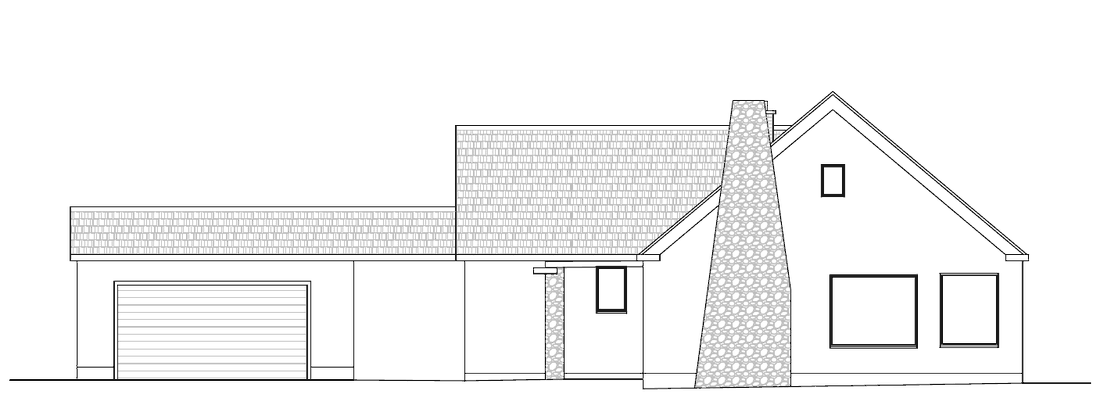
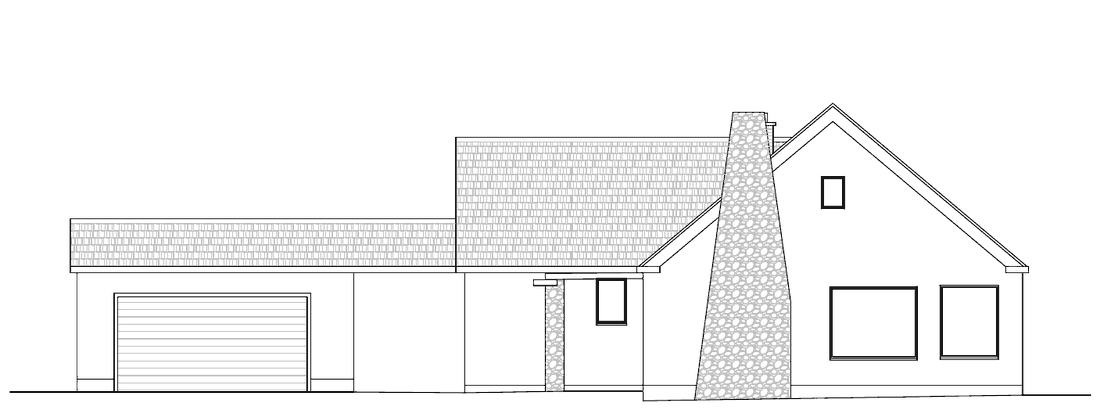
Moss Lane: full rear elevation incl. chimneys, trees removed from drawings, Martin's chosen before photos
Claude-Session: https://claude.ai/code/session_01MpwyAFK5RH9F2HK69AEfyK

Changed region(s): [[0.0, 0.2412, 0.9891, 0.995], [0.7418, 0.392, 0.7727, 0.4523], [0.7418, 0.4824, 0.7727, 0.5126]]

diff --git a/project-p135.html b/project-p135.html
@@ -61,7 +61,7 @@
 <dt>Type of work</dt><dd>Loft conversion</dd>
 </dl><a class="btn btn-navy" href="projects.html#p135">See it on the map</a><a class="btn btn-line" href="contact.html?type=Loft+conversion">Talk to us about yours</a></aside>
 </div>
-<div class="bf"><div class="section-head ba-head"><div><span class="label">Before the work</span><h2>How the house looked before</h2><p class="muted">Photos of the finished house are to come.</p></div></div><div class="bf-grid"><figure><img src="img/projects/p135/before-front.jpg" alt="New bungalow in Pinner: Front, before the work" width="1050" height="1400" loading="lazy"><figcaption>Front</figcaption></figure><figure><img src="img/projects/p135/before-side.jpg" alt="New bungalow in Pinner: Side, before the work" width="1050" height="1400" loading="lazy"><figcaption>Side</figcaption></figure><figure><img src="img/projects/p135/before-rear.jpg" alt="New bungalow in Pinner: Rear, before the work" width="1400" height="1050" loading="lazy"><figcaption>Rear</figcaption></figure><figure><img src="img/projects/p135/before-side-2.jpg" alt="New bungalow in Pinner: Other side, before the work" width="1050" height="1400" loading="lazy"><figcaption>Other side</figcaption></figure><figure><img src="img/projects/p135/before-hall.jpg" alt="New bungalow in Pinner: Hall, before the work" width="1050" height="1400" loading="lazy"><figcaption>Hall</figcaption></figure><figure><img src="img/projects/p135/before-lounge.jpg" alt="New bungalow in Pinner: Lounge, before the work" width="1050" height="1400" loading="lazy"><figcaption>Lounge</figcaption></figure><figure><img src="img/projects/p135/before-kitchen.jpg" alt="New bungalow in Pinner: Kitchen, before the work" width="1050" height="1400" loading="lazy"><figcaption>Kitchen</figcaption></figure><figure><img src="img/projects/p135/before-dining.jpg" alt="New bungalow in Pinner: Dining room, before the work" width="1050" height="1400" loading="lazy"><figcaption>Dining room</figcaption></figure><figure><img src="img/projects/p135/before-bedroom.jpg" alt="New bungalow in Pinner: Bedroom, before the work" width="1050" height="1400" loading="lazy"><figcaption>Bedroom</figcaption></figure><figure><img src="img/projects/p135/before-bathroom.jpg" alt="New bungalow in Pinner: Bathroom, before the work" width="1050" height="1400" loading="lazy"><figcaption>Bathroom</figcaption></figure></div></div><div class="dw" data-tabs><div class="section-head ba-head"><div><span class="label">The drawings</span><h2>Existing and approved elevations</h2><p class="muted">Drag the blue handle left and right to see what changed.</p></div><div class="ba-tabs" role="tablist" aria-label="Elevation"><button type="button" role="tab" id="dw-tab-0" aria-controls="dw-0" aria-selected="true">Front</button><button type="button" role="tab" id="dw-tab-1" aria-controls="dw-1" aria-selected="false" tabindex="-1">Side</button><button type="button" role="tab" id="dw-tab-2" aria-controls="dw-2" aria-selected="false" tabindex="-1">Rear</button><button type="button" role="tab" id="dw-tab-3" aria-controls="dw-3" aria-selected="false" tabindex="-1">Other side</button></div></div><div class="cmp-pane" role="tabpanel" id="dw-0" aria-labelledby="dw-tab-0"><div class="cmp" data-compare style="--pos:50%"><img src="img/projects/p135/elev-front-existing.png" alt="Front elevation, existing" loading="lazy"><img class="cmp-after" src="img/projects/p135/elev-front-proposed.png" alt="Front elevation, approved" loading="lazy"><span class="cmp-tag cmp-l">Existing</span><span class="cmp-tag cmp-r">Approved</span><span class="cmp-line" aria-hidden="true"></span><span class="cmp-hint" aria-hidden="true">Drag to compare</span><input type="range" min="0" max="100" value="50" aria-label="Slide between existing and approved front elevation"></div></div><div class="cmp-pane" role="tabpanel" id="dw-1" aria-labelledby="dw-tab-1" hidden><div class="cmp" data-compare style="--pos:50%"><img src="img/projects/p135/elev-side-existing.png" alt="Side elevation, existing" loading="lazy"><img class="cmp-after" src="img/projects/p135/elev-side-proposed.png" alt="Side elevation, approved" loading="lazy"><span class="cmp-tag cmp-l">Existing</span><span class="cmp-tag cmp-r">Approved</span><span class="cmp-line" aria-hidden="true"></span><span class="cmp-hint" aria-hidden="true">Drag to compare</span><input type="range" min="0" max="100" value="50" aria-label="Slide between existing and approved side elevation"></div></div><div class="cmp-pane" role="tabpanel" id="dw-2" aria-labelledby="dw-tab-2" hidden><div class="cmp" data-compare style="--pos:50%"><img src="img/projects/p135/elev-rear-existing.png" alt="Rear elevation, existing" loading="lazy"><img class="cmp-after" src="img/projects/p135/elev-rear-proposed.png" alt="Rear elevation, approved" loading="lazy"><span class="cmp-tag cmp-l">Existing</span><span class="cmp-tag cmp-r">Approved</span><span class="cmp-line" aria-hidden="true"></span><span class="cmp-hint" aria-hidden="true">Drag to compare</span><input type="range" min="0" max="100" value="50" aria-label="Slide between existing and approved rear elevation"></div></div><div class="cmp-pane" role="tabpanel" id="dw-3" aria-labelledby="dw-tab-3" hidden><div class="cmp" data-compare style="--pos:50%"><img src="img/projects/p135/elev-side-2-existing.png" alt="Other side elevation, existing" loading="lazy"><img class="cmp-after" src="img/projects/p135/elev-side-2-proposed.png" alt="Other side elevation, approved" loading="lazy"><span class="cmp-tag cmp-l">Existing</span><span class="cmp-tag cmp-r">Approved</span><span class="cmp-line" aria-hidden="true"></span><span class="cmp-hint" aria-hidden="true">Drag to compare</span><input type="range" min="0" max="100" value="50" aria-label="Slide between existing and approved other side elevation"></div></div></div><div class="cta-box case-cta"><div><span class="label">Your project</span><h2>Planning a loft conversion?</h2><p>Tell us about your house and what you have in mind. We will tell you honestly what is likely to be approved.</p></div><div class="actions"><a class="btn btn-accent" href="tel:07843561129">Call 07843 561129</a><a class="btn btn-line" href="contact.html?type=Loft+conversion">Send an enquiry</a></div></div>
+<div class="bf"><div class="section-head ba-head"><div><span class="label">Before the work</span><h2>How the house looked before</h2><p class="muted">Photos of the finished house are to come.</p></div></div><div class="bf-grid"><figure><img src="img/projects/p135/before-front.jpg" alt="New bungalow in Pinner: Front, before the work" width="1050" height="1400" loading="lazy"><figcaption>Front</figcaption></figure><figure><img src="img/projects/p135/before-side.jpg" alt="New bungalow in Pinner: Side, before the work" width="1050" height="1400" loading="lazy"><figcaption>Side</figcaption></figure><figure><img src="img/projects/p135/before-rear.jpg" alt="New bungalow in Pinner: Rear, before the work" width="1400" height="1050" loading="lazy"><figcaption>Rear</figcaption></figure><figure><img src="img/projects/p135/before-side-2.jpg" alt="New bungalow in Pinner: Other side, before the work" width="1050" height="1400" loading="lazy"><figcaption>Other side</figcaption></figure><figure><img src="img/projects/p135/before-hall.jpg" alt="New bungalow in Pinner: Hall, before the work" width="1050" height="1400" loading="lazy"><figcaption>Hall</figcaption></figure><figure><img src="img/projects/p135/before-lounge.jpg" alt="New bungalow in Pinner: Lounge, before the work" width="1050" height="1400" loading="lazy"><figcaption>Lounge</figcaption></figure><figure><img src="img/projects/p135/before-kitchen.jpg" alt="New bungalow in Pinner: Kitchen, before the work" width="1050" height="1400" loading="lazy"><figcaption>Kitchen</figcaption></figure><figure><img src="img/projects/p135/before-utility.jpg" alt="New bungalow in Pinner: Utility room, before the work" width="1050" height="1400" loading="lazy"><figcaption>Utility room</figcaption></figure><figure><img src="img/projects/p135/before-dining.jpg" alt="New bungalow in Pinner: Dining room, before the work" width="1050" height="1400" loading="lazy"><figcaption>Dining room</figcaption></figure><figure><img src="img/projects/p135/before-bedroom.jpg" alt="New bungalow in Pinner: Bedroom, before the work" width="1050" height="1400" loading="lazy"><figcaption>Bedroom</figcaption></figure><figure><img src="img/projects/p135/before-bathroom.jpg" alt="New bungalow in Pinner: Shower room, before the work" width="1050" height="1400" loading="lazy"><figcaption>Shower room</figcaption></figure><figure><img src="img/projects/p135/before-loft.jpg" alt="New bungalow in Pinner: Loft, before the work" width="1050" height="1400" loading="lazy"><figcaption>Loft</figcaption></figure></div></div><div class="dw" data-tabs><div class="section-head ba-head"><div><span class="label">The drawings</span><h2>Existing and approved elevations</h2><p class="muted">Drag the blue handle left and right to see what changed.</p></div><div class="ba-tabs" role="tablist" aria-label="Elevation"><button type="button" role="tab" id="dw-tab-0" aria-controls="dw-0" aria-selected="true">Front</button><button type="button" role="tab" id="dw-tab-1" aria-controls="dw-1" aria-selected="false" tabindex="-1">Side</button><button type="button" role="tab" id="dw-tab-2" aria-controls="dw-2" aria-selected="false" tabindex="-1">Rear</button><button type="button" role="tab" id="dw-tab-3" aria-controls="dw-3" aria-selected="false" tabindex="-1">Other side</button></div></div><div class="cmp-pane" role="tabpanel" id="dw-0" aria-labelledby="dw-tab-0"><div class="cmp" data-compare style="--pos:50%"><img src="img/projects/p135/elev-front-existing.png" alt="Front elevation, existing" loading="lazy"><img class="cmp-after" src="img/projects/p135/elev-front-proposed.png" alt="Front elevation, approved" loading="lazy"><span class="cmp-tag cmp-l">Existing</span><span class="cmp-tag cmp-r">Approved</span><span class="cmp-line" aria-hidden="true"></span><span class="cmp-hint" aria-hidden="true">Drag to compare</span><input type="range" min="0" max="100" value="50" aria-label="Slide between existing and approved front elevation"></div></div><div class="cmp-pane" role="tabpanel" id="dw-1" aria-labelledby="dw-tab-1" hidden><div class="cmp" data-compare style="--pos:50%"><img src="img/projects/p135/elev-side-existing.png" alt="Side elevation, existing" loading="lazy"><img class="cmp-after" src="img/projects/p135/elev-side-proposed.png" alt="Side elevation, approved" loading="lazy"><span class="cmp-tag cmp-l">Existing</span><span class="cmp-tag cmp-r">Approved</span><span class="cmp-line" aria-hidden="true"></span><span class="cmp-hint" aria-hidden="true">Drag to compare</span><input type="range" min="0" max="100" value="50" aria-label="Slide between existing and approved side elevation"></div></div><div class="cmp-pane" role="tabpanel" id="dw-2" aria-labelledby="dw-tab-2" hidden><div class="cmp" data-compare style="--pos:50%"><img src="img/projects/p135/elev-rear-existing.png" alt="Rear elevation, existing" loading="lazy"><img class="cmp-after" src="img/projects/p135/elev-rear-proposed.png" alt="Rear elevation, approved" loading="lazy"><span class="cmp-tag cmp-l">Existing</span><span class="cmp-tag cmp-r">Approved</span><span class="cmp-line" aria-hidden="true"></span><span class="cmp-hint" aria-hidden="true">Drag to compare</span><input type="range" min="0" max="100" value="50" aria-label="Slide between existing and approved rear elevation"></div></div><div class="cmp-pane" role="tabpanel" id="dw-3" aria-labelledby="dw-tab-3" hidden><div class="cmp" data-compare style="--pos:50%"><img src="img/projects/p135/elev-side-2-existing.png" alt="Other side elevation, existing" loading="lazy"><img class="cmp-after" src="img/projects/p135/elev-side-2-proposed.png" alt="Other side elevation, approved" loading="lazy"><span class="cmp-tag cmp-l">Existing</span><span class="cmp-tag cmp-r">Approved</span><span class="cmp-line" aria-hidden="true"></span><span class="cmp-hint" aria-hidden="true">Drag to compare</span><input type="range" min="0" max="100" value="50" aria-label="Slide between existing and approved other side elevation"></div></div></div><div class="cta-box case-cta"><div><span class="label">Your project</span><h2>Planning a loft conversion?</h2><p>Tell us about your house and what you have in mind. We will tell you honestly what is likely to be approved.</p></div><div class="actions"><a class="btn btn-accent" href="tel:07843561129">Call 07843 561129</a><a class="btn btn-line" href="contact.html?type=Loft+conversion">Send an enquiry</a></div></div>
 <div><div class="section-head" style="margin-bottom:24px"><h2 style="font-size:1.5rem">More projects</h2><a class="more" href="projects.html">All projects and the map</a></div><div class="fp-grid"><article class="fp-card" aria-label="1 of 3: Extensions, dormers and garden room in Hadley Wood"><a class="fp-photo" href="project-p012.html" tabindex="-1" aria-hidden="true"><div class="ph"><span>Photo to come</span></div></a><div class="fp-body"><span class="card-type">Extension and loft · Approved 2024–2026</span><h3><a href="project-p012.html">Extensions, dormers and garden room in Hadley Wood</a></h3><p>Side and rear extensions, front and rear dormers, a garden outhouse and a new front boundary</p><a class="more" href="project-p012.html" aria-label="View project: Extensions, dormers and garden room in Hadley Wood">View project</a></div></article><article class="fp-card" aria-label="2 of 3: Extension and new roof in Radlett"><a class="fp-photo" href="project-p020.html" tabindex="-1" aria-hidden="true"><div class="ph"><span>Photo to come</span></div></a><div class="fp-body"><span class="card-type">Extension and loft · Approved 2025–2026</span><h3><a href="project-p020.html">Extension and new roof in Radlett</a></h3><p>Two storey side and rear extension with a new crown roof and loft rooms</p><a class="more" href="project-p020.html" aria-label="View project: Extension and new roof in Radlett">View project</a></div></article><article class="fp-card" aria-label="3 of 3: Extension and loft conversion in Croxley Green"><a class="fp-photo" href="project-p057.html" tabindex="-1" aria-hidden="true"><div class="ph"><span>Photo to come</span></div></a><div class="fp-body"><span class="card-type">Extension and loft · Approved 2025</span><h3><a href="project-p057.html">Extension and loft conversion in Croxley Green</a></h3><p>Rear extension and loft conversion, approved on appeal</p><a class="more" href="project-p057.html" aria-label="View project: Extension and loft conversion in Croxley Green">View project</a></div></article></div></div>
 </div></section>
 </main>

diff --git a/data/featured.js b/data/featured.js
@@ -14,7 +14,7 @@
 //   drawings    optional existing vs approved elevations, drawn to line up: {before, after, views: [{label, before, after}]}
 window.TCP_FEATURED = [
 {"id": "p156", "ref": "23/5115/FUL", "street": "Totteridge Village", "town": "Whetstone", "title": "New family house in Totteridge", "project": "Replacement two storey house with rooms in the roof and a basement, in a conservation area", "features": ["Replacement detached house", "Rooms in the roof space", "Basement", "Rear terrace", "New front landscaping", "Totteridge Conservation Area"], "description": "A replacement family house on a large plot in the Totteridge Conservation Area, an area of big detached houses set back behind mature trees. Earlier schemes for the site had been refused, so the design had to respect the character of the lane and the trees around it.\n\nThe approved scheme replaces the existing house with a two storey detached house with rooms in the roof space, a rear terrace and new hard and soft landscaping at the front. A second permission added a basement. The applications were supported by a heritage statement, ecological and bat surveys, an archaeological report and an arboricultural assessment.\n\nAfter approval we worked through the final layouts with the client and coordinated the structural design, drainage and overheating assessment for the build.", "photos": [], "before": [{"src": "img/projects/p156/before-front.jpg", "caption": "Front"}, {"src": "img/projects/p156/before-front-2.jpg", "caption": "Garage wing"}, {"src": "img/projects/p156/before-entrance.jpg", "caption": "Entrance"}, {"src": "img/projects/p156/before-side.jpg", "caption": "Side"}, {"src": "img/projects/p156/before-rear.jpg", "caption": "Rear"}, {"src": "img/projects/p156/before-terrace.jpg", "caption": "Rear terrace"}, {"src": "img/projects/p156/before-conservatory-out.jpg", "caption": "Conservatory"}, {"src": "img/projects/p156/before-garden.jpg", "caption": "Garden"}, {"src": "img/projects/p156/before-hall.jpg", "caption": "Entrance hall"}, {"src": "img/projects/p156/before-hallway.jpg", "caption": "Hallway"}, {"src": "img/projects/p156/before-stairs.jpg", "caption": "Stairs"}, {"src": "img/projects/p156/before-lounge.jpg", "caption": "Lounge"}, {"src": "img/projects/p156/before-dining.jpg", "caption": "Dining room"}, {"src": "img/projects/p156/before-kitchen.jpg", "caption": "Kitchen"}, {"src": "img/projects/p156/before-garden-room.jpg", "caption": "Garden room"}, {"src": "img/projects/p156/before-conservatory.jpg", "caption": "Conservatory inside"}, {"src": "img/projects/p156/before-study.jpg", "caption": "Study"}, {"src": "img/projects/p156/before-bedroom.jpg", "caption": "Main bedroom"}, {"src": "img/projects/p156/before-bathroom.jpg", "caption": "En-suite"}, {"src": "img/projects/p156/before-dressing.jpg", "caption": "Dressing room"}, {"src": "img/projects/p156/before-bedroom-2.jpg", "caption": "Bedroom"}, {"src": "img/projects/p156/before-bedroom-3.jpg", "caption": "Guest bedroom"}, {"src": "img/projects/p156/before-shower.jpg", "caption": "Shower room"}], "drawings": {"before": "Existing", "after": "Approved", "views": [{"label": "Front", "before": "img/projects/p156/elev-front-existing.png", "after": "img/projects/p156/elev-front-proposed.png"}, {"label": "Side", "before": "img/projects/p156/elev-side-existing.png", "after": "img/projects/p156/elev-side-proposed.png"}, {"label": "Rear", "before": "img/projects/p156/elev-rear-existing.png", "after": "img/projects/p156/elev-rear-proposed.png"}, {"label": "Other side", "before": "img/projects/p156/elev-side-2-existing.png", "after": "img/projects/p156/elev-side-2-proposed.png"}]}},
-{"id": "p135", "ref": "P/1633/23", "street": "Moss Lane", "town": "Pinner", "title": "New bungalow in Pinner", "project": "Old bungalow replaced with a new one, with rooms in the roof and a detached garage", "features": ["Replacement bungalow", "Rooms in the roof space", "Detached garage", "Landscaping", "Bin and cycle stores"], "description": "The existing bungalow was demolished and replaced with a new bungalow with habitable rooms in the roof space, a detached garage, landscaping and bin and cycle stores. Harrow Council granted planning permission in 2024.\n\nWe then took the project through the planning conditions, including materials, site levels, drainage, landscaping and the fire safety statement, and a minor amendment to the shape and colour of the front windows.", "photos": [], "before": [{"src": "img/projects/p135/before-front.jpg", "caption": "Front"}, {"src": "img/projects/p135/before-side.jpg", "caption": "Side"}, {"src": "img/projects/p135/before-rear.jpg", "caption": "Rear"}, {"src": "img/projects/p135/before-side-2.jpg", "caption": "Other side"}, {"src": "img/projects/p135/before-hall.jpg", "caption": "Hall"}, {"src": "img/projects/p135/before-lounge.jpg", "caption": "Lounge"}, {"src": "img/projects/p135/before-kitchen.jpg", "caption": "Kitchen"}, {"src": "img/projects/p135/before-dining.jpg", "caption": "Dining room"}, {"src": "img/projects/p135/before-bedroom.jpg", "caption": "Bedroom"}, {"src": "img/projects/p135/before-bathroom.jpg", "caption": "Bathroom"}], "drawings": {"before": "Existing", "after": "Approved", "views": [{"label": "Front", "before": "img/projects/p135/elev-front-existing.png", "after": "img/projects/p135/elev-front-proposed.png"}, {"label": "Side", "before": "img/projects/p135/elev-side-existing.png", "after": "img/projects/p135/elev-side-proposed.png"}, {"label": "Rear", "before": "img/projects/p135/elev-rear-existing.png", "after": "img/projects/p135/elev-rear-proposed.png"}, {"label": "Other side", "before": "img/projects/p135/elev-side-2-existing.png", "after": "img/projects/p135/elev-side-2-proposed.png"}]}},
+{"id": "p135", "ref": "P/1633/23", "street": "Moss Lane", "town": "Pinner", "title": "New bungalow in Pinner", "project": "Old bungalow replaced with a new one, with rooms in the roof and a detached garage", "features": ["Replacement bungalow", "Rooms in the roof space", "Detached garage", "Landscaping", "Bin and cycle stores"], "description": "The existing bungalow was demolished and replaced with a new bungalow with habitable rooms in the roof space, a detached garage, landscaping and bin and cycle stores. Harrow Council granted planning permission in 2024.\n\nWe then took the project through the planning conditions, including materials, site levels, drainage, landscaping and the fire safety statement, and a minor amendment to the shape and colour of the front windows.", "photos": [], "before": [{"src": "img/projects/p135/before-front.jpg", "caption": "Front"}, {"src": "img/projects/p135/before-side.jpg", "caption": "Side"}, {"src": "img/projects/p135/before-rear.jpg", "caption": "Rear"}, {"src": "img/projects/p135/before-side-2.jpg", "caption": "Other side"}, {"src": "img/projects/p135/before-hall.jpg", "caption": "Hall"}, {"src": "img/projects/p135/before-lounge.jpg", "caption": "Lounge"}, {"src": "img/projects/p135/before-kitchen.jpg", "caption": "Kitchen"}, {"src": "img/projects/p135/before-utility.jpg", "caption": "Utility room"}, {"src": "img/projects/p135/before-dining.jpg", "caption": "Dining room"}, {"src": "img/projects/p135/before-bedroom.jpg", "caption": "Bedroom"}, {"src": "img/projects/p135/before-bathroom.jpg", "caption": "Shower room"}, {"src": "img/projects/p135/before-loft.jpg", "caption": "Loft"}], "drawings": {"before": "Existing", "after": "Approved", "views": [{"label": "Front", "before": "img/projects/p135/elev-front-existing.png", "after": "img/projects/p135/elev-front-proposed.png"}, {"label": "Side", "before": "img/projects/p135/elev-side-existing.png", "after": "img/projects/p135/elev-side-proposed.png"}, {"label": "Rear", "before": "img/projects/p135/elev-rear-existing.png", "after": "img/projects/p135/elev-rear-proposed.png"}, {"label": "Other side", "before": "img/projects/p135/elev-side-2-existing.png", "after": "img/projects/p135/elev-side-2-proposed.png"}]}},
 {"id": "p012", "ref": "24/04073/HOU", "street": "Beech Hill", "town": "Hadley Wood", "title": "Extensions, dormers and garden room in Hadley Wood", "project": "Side and rear extensions, front and rear dormers, a garden outhouse and a new front boundary", "features": ["Single storey side extension", "Part single, part two storey rear extension", "Front dormer and two rear dormers", "Rooflights", "Garden outhouse", "Front wall, railings and gates"], "description": "A full remodel of a detached house in Hadley Wood. Enfield Council granted permission for a single storey side extension, a part single, part two storey rear extension, a front dormer and two rear dormers with rooflights. A garden outhouse followed under permitted development, confirmed with a lawful development certificate.\n\nThe new front wall, railings and gates took persistence. The first application was refused on height and the second because of a protected tree. We redesigned the scheme to stay clear of the tree's root protection area, and the third application was approved.", "photos": [], "before": [{"src": "img/projects/p012/before-front.jpg", "caption": "Front"}, {"src": "img/projects/p012/before-entrance.jpg", "caption": "Front door"}, {"src": "img/projects/p012/before-conservatory.jpg", "caption": "Side conservatory"}, {"src": "img/projects/p012/before-rear.jpg", "caption": "Rear"}, {"src": "img/projects/p012/before-rear-2.jpg", "caption": "Rear terrace"}, {"src": "img/projects/p012/before-living.jpg", "caption": "Living room"}, {"src": "img/projects/p012/before-dining.jpg", "caption": "Dining room"}, {"src": "img/projects/p012/before-kitchen.jpg", "caption": "Kitchen"}, {"src": "img/projects/p012/before-landing.jpg", "caption": "Stairs and landing"}, {"src": "img/projects/p012/before-bedroom.jpg", "caption": "Bedroom"}, {"src": "img/projects/p012/before-en-suite.jpg", "caption": "En-suite"}, {"src": "img/projects/p012/before-bathroom.jpg", "caption": "Bathroom"}], "drawings": {"before": "Existing", "after": "Approved", "views": [{"label": "Front", "before": "img/projects/p012/elev-front-existing.png", "after": "img/projects/p012/elev-front-proposed.png"}, {"label": "Side", "before": "img/projects/p012/elev-side-existing.png", "after": "img/projects/p012/elev-side-proposed.png"}, {"label": "Rear", "before": "img/projects/p012/elev-rear-existing.png", "after": "img/projects/p012/elev-rear-proposed.png"}, {"label": "Other side", "before": "img/projects/p012/elev-side-2-existing.png", "after": "img/projects/p012/elev-side-2-proposed.png"}]}},
 {"id": "p020", "ref": "25/0997/HSE", "street": "Newlands Avenue", "town": "Radlett", "title": "Extension and new roof in Radlett", "project": "Two storey side and rear extension with a new crown roof and loft rooms", "features": ["Part single, part two storey side and rear extension", "Front porch", "Raised ridge with a crown roof", "Two rear dormers with Juliet balconies", "Rooflights", "First floor rear balcony"], "description": "A large family extension in Radlett. We started with pre-application advice from Hertsmere, then applied for a part single, part two storey side and rear extension and a front porch.\n\nThe roof was rebuilt with a raised ridge and crown roof to create rooms in the loft, with two rear dormers with Juliet balconies and rooflights to the front, rear and sides. The scheme also includes a first floor rear balcony and new front landscaping. The application was supported by an arboricultural impact assessment, and Hertsmere approved it in November 2025.", "photos": [], "before": [{"src": "img/projects/p020/before-front.jpg", "caption": "Front"}, {"src": "img/projects/p020/before-street.jpg", "caption": "Front and garage"}, {"src": "img/projects/p020/before-rear.jpg", "caption": "Rear"}, {"src": "img/projects/p020/before-terrace.jpg", "caption": "Rear terrace"}, {"src": "img/projects/p020/before-side.jpg", "caption": "Side"}], "drawings": {"before": "Existing", "after": "Approved", "views": [{"label": "Front", "before": "img/projects/p020/elev-front-existing.png", "after": "img/projects/p020/elev-front-proposed.png"}, {"label": "Side", "before": "img/projects/p020/elev-side-existing.png", "after": "img/projects/p020/elev-side-proposed.png"}, {"label": "Rear", "before": "img/projects/p020/elev-rear-existing.png", "after": "img/projects/p020/elev-rear-proposed.png"}, {"label": "Other side", "before": "img/projects/p020/elev-side-2-existing.png", "after": "img/projects/p020/elev-side-2-proposed.png"}]}},
 {"id": "p057", "ref": "25/1887/FUL", "street": "Copthorne Road", "town": "Rickmansworth", "title": "Extension and loft conversion in Croxley Green", "project": "Rear extension and loft conversion, approved on appeal", "features": ["Two storey and single storey rear extension", "Two rear dormers for the loft", "Front and side rooflights", "Raised rear patio", "Front porch", "Solar panels"], "description": "When the council refused the first application, we took it to appeal. The Planning Inspector allowed the appeal in August 2025 and granted permission for a two storey and single storey rear extension, two rear dormers for a loft conversion, rooflights and a raised rear patio.\n\nA second application for a new roof with two rear dormers, a front porch, solar panels and alterations to the garage roof was then approved by Three Rivers District Council.", "photos": [], "before": [{"src": "img/projects/p057/before-front.jpg", "caption": "Front"}, {"src": "img/projects/p057/before-garage.jpg", "caption": "Garage"}, {"src": "img/projects/p057/before-garage-inside.jpg", "caption": "Garage inside"}, {"src": "img/projects/p057/before-rear.jpg", "caption": "Rear"}, {"src": "img/projects/p057/before-front-door.jpg", "caption": "Front door"}, {"src": "img/projects/p057/before-lounge.jpg", "caption": "Lounge"}, {"src": "img/projects/p057/before-kitchen.jpg", "caption": "Kitchen"}, {"src": "img/projects/p057/before-dining.jpg", "caption": "Dining room"}, {"src": "img/projects/p057/before-stairs.jpg", "caption": "Stairs"}, {"src": "img/projects/p057/before-bedroom.jpg", "caption": "Bedroom"}, {"src": "img/projects/p057/before-bathroom.jpg", "caption": "Bathroom"}], "drawings": {"before": "Existing", "after": "Approved", "views": [{"label": "Front", "before": "img/projects/p057/elev-front-existing.png", "after": "img/projects/p057/elev-front-proposed.png"}, {"label": "Side", "before": "img/projects/p057/elev-side-existing.png", "after": "img/projects/p057/elev-side-proposed.png"}, {"label": "Rear", "before": "img/projects/p057/elev-rear-existing.png", "after": "img/projects/p057/elev-rear-proposed.png"}, {"label": "Other side", "before": "img/projects/p057/elev-side-2-existing.png", "after": "img/projects/p057/elev-side-2-proposed.png"}]}},
